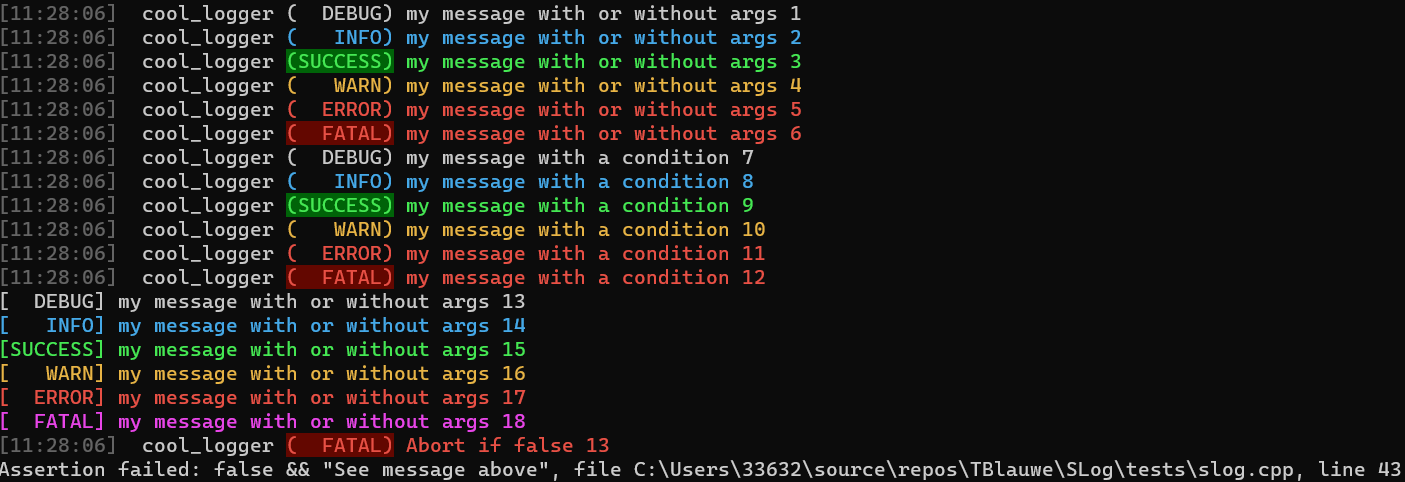
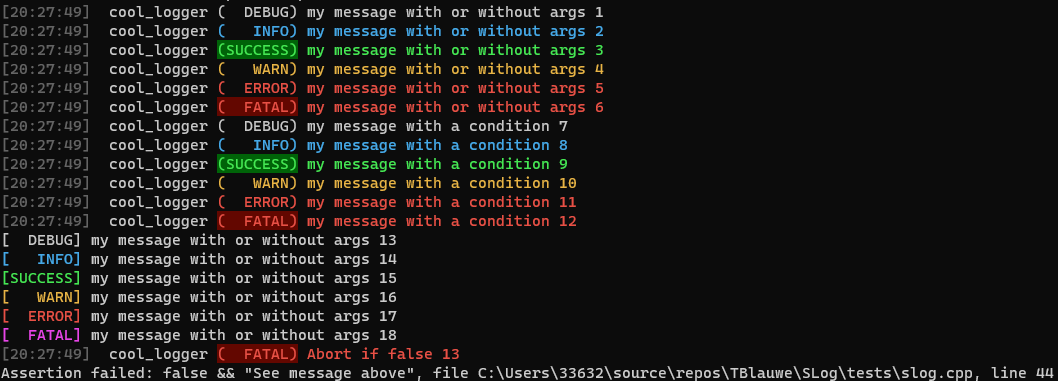
Updated readme.md

Changed region(s): [[0.0, 0.0, 0.9981, 1.0]]

diff --git a/tests/slog.cpp b/tests/slog.cpp
@@ -6,7 +6,7 @@ struct my_logger : public slog::Logger<my_logger>
 {
 	// Override / customize your parameters
 	static constexpr const char * logger_name {"cool_logger"}; 
-	static constexpr bool use_message_style {false}; 
+	static constexpr bool use_message_style {true}; 
 	static constexpr bool show_fatal_bg {true}; 
 	static constexpr bool show_success_bg {true}; 
 	static constexpr fmt::rgb fatal_bg {99,7,0}; 

diff --git a/include/slog/slog.hpp b/include/slog/slog.hpp
@@ -409,7 +409,7 @@ slog_assert(my_logger, false, "Abort if false {}", arg);
 
 		// --- MESSAGE ---
 		static constexpr bool add_new_line {true};
-		static constexpr bool use_message_style {true};
+		static constexpr bool use_message_style {false};
 		static constexpr fmt::text_style message_style {};
 		static constexpr bool inherit_level_style {false};
 		static constexpr bool propagate_level_fg {true};

diff --git a/README.md b/README.md
@@ -11,6 +11,7 @@ struct my_logger : public slog::Logger<my_logger>
 {
 	// Override / customize your parameters
 	static constexpr const char * logger_name {"cool_logger"}; 
+	static constexpr bool use_message_style {true}; 
 	static constexpr bool show_fatal_bg {true}; 
 	static constexpr bool show_success_bg {true}; 
 	static constexpr fmt::rgb fatal_bg {99,7,0}; 
@@ -231,6 +232,17 @@ static constexpr bool add_new_line {true};
 ```
 
 Whether or not a new line should added at the end or not.
+
+```cpp
+static constexpr bool use_message_style {true}; 
+```
+
+Whether or not we override the message style, with or options or the default coloring provided by the string.
+For example, if you want to log a string that is already colored, setting `use_message_style` to `true` will override
+the color by the style infered from our others options.
+In short :
+* If set to `false`, no coloring but the one already present in the string.
+* If set to `true`, maybe some coloring infered by SLog, but not by the string itself.
 
 ```cpp
 static constexpr fmt::text_style message_style {};
